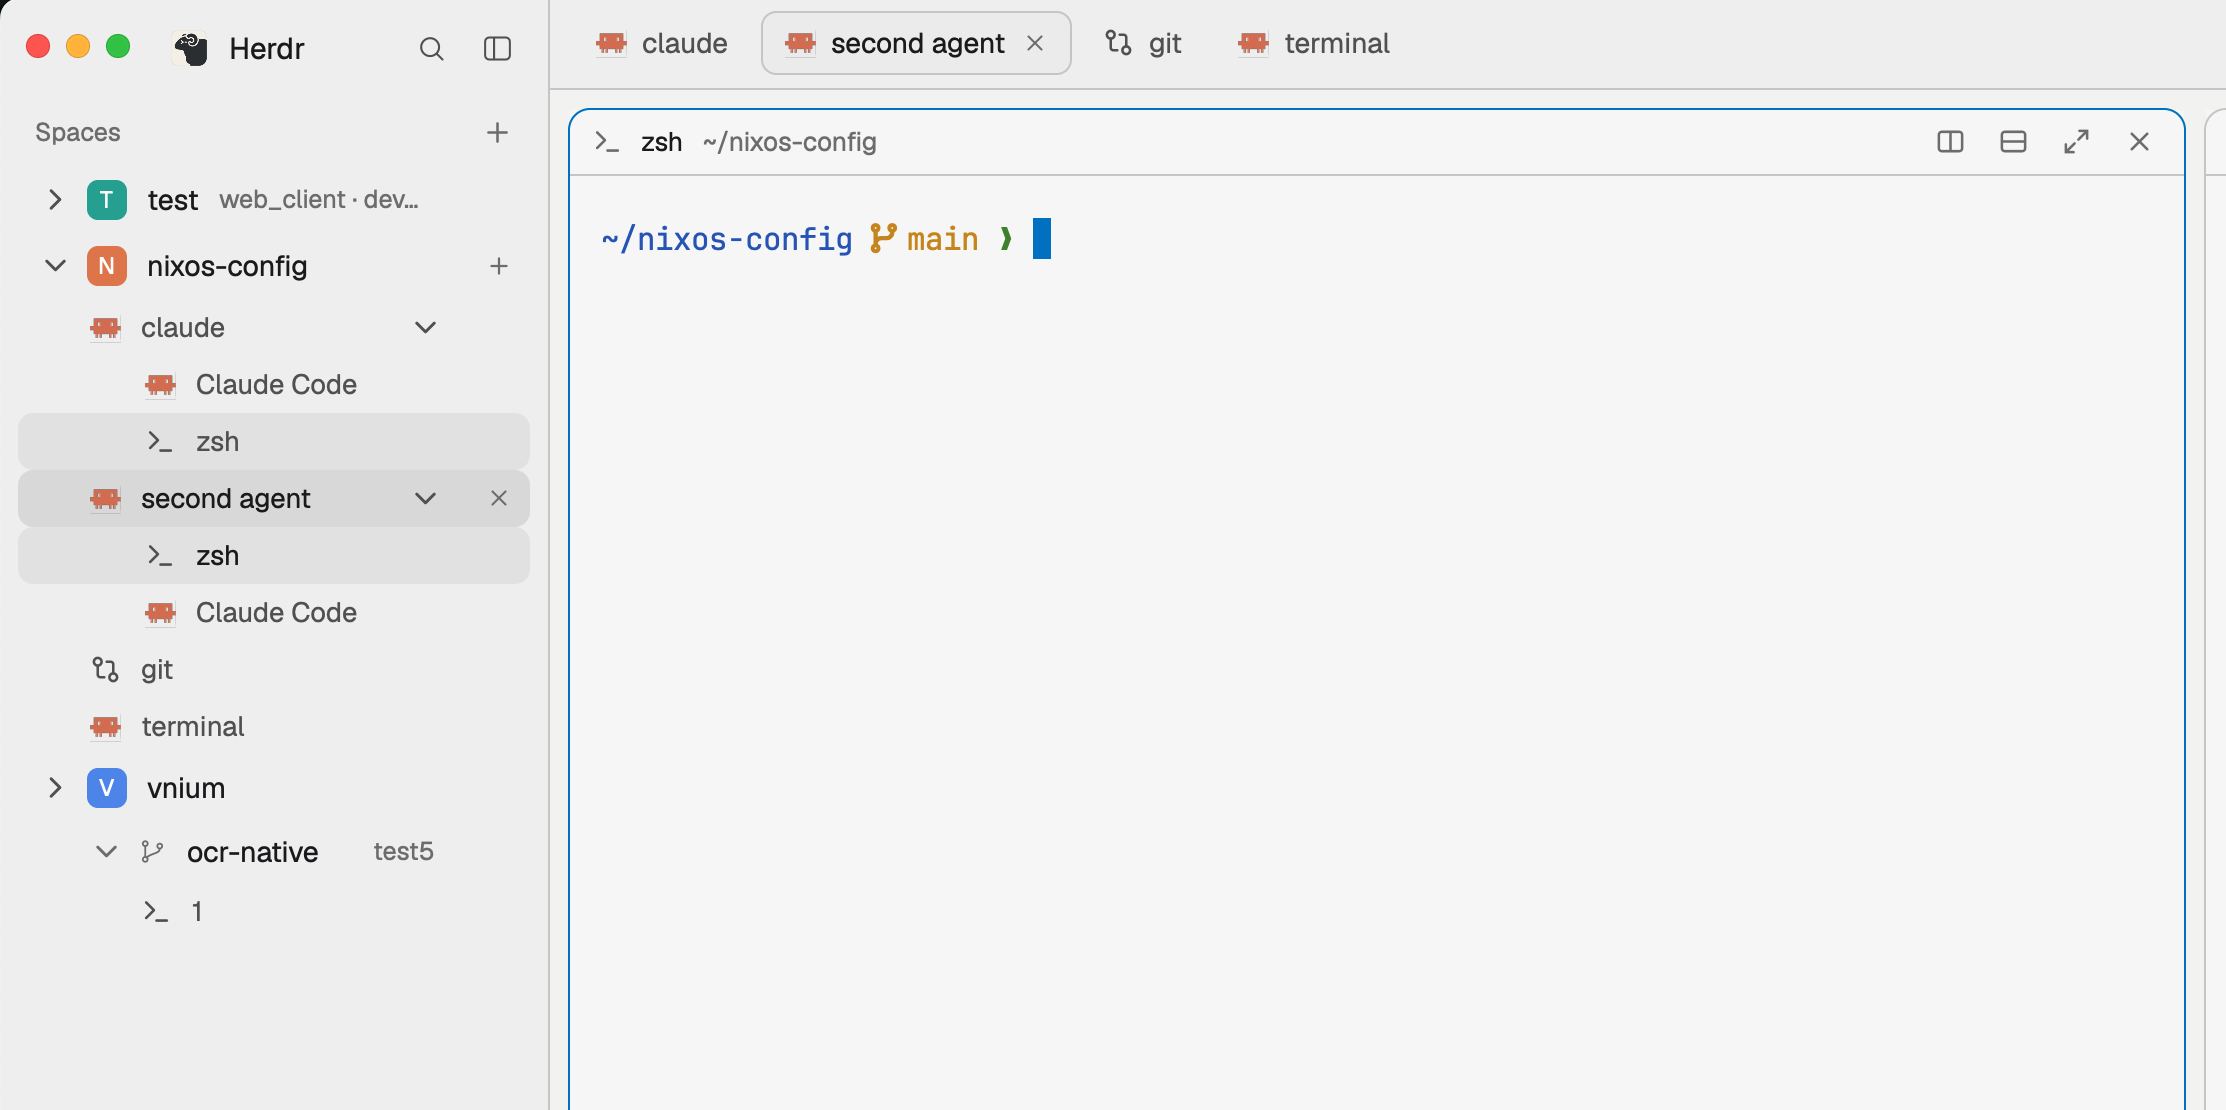
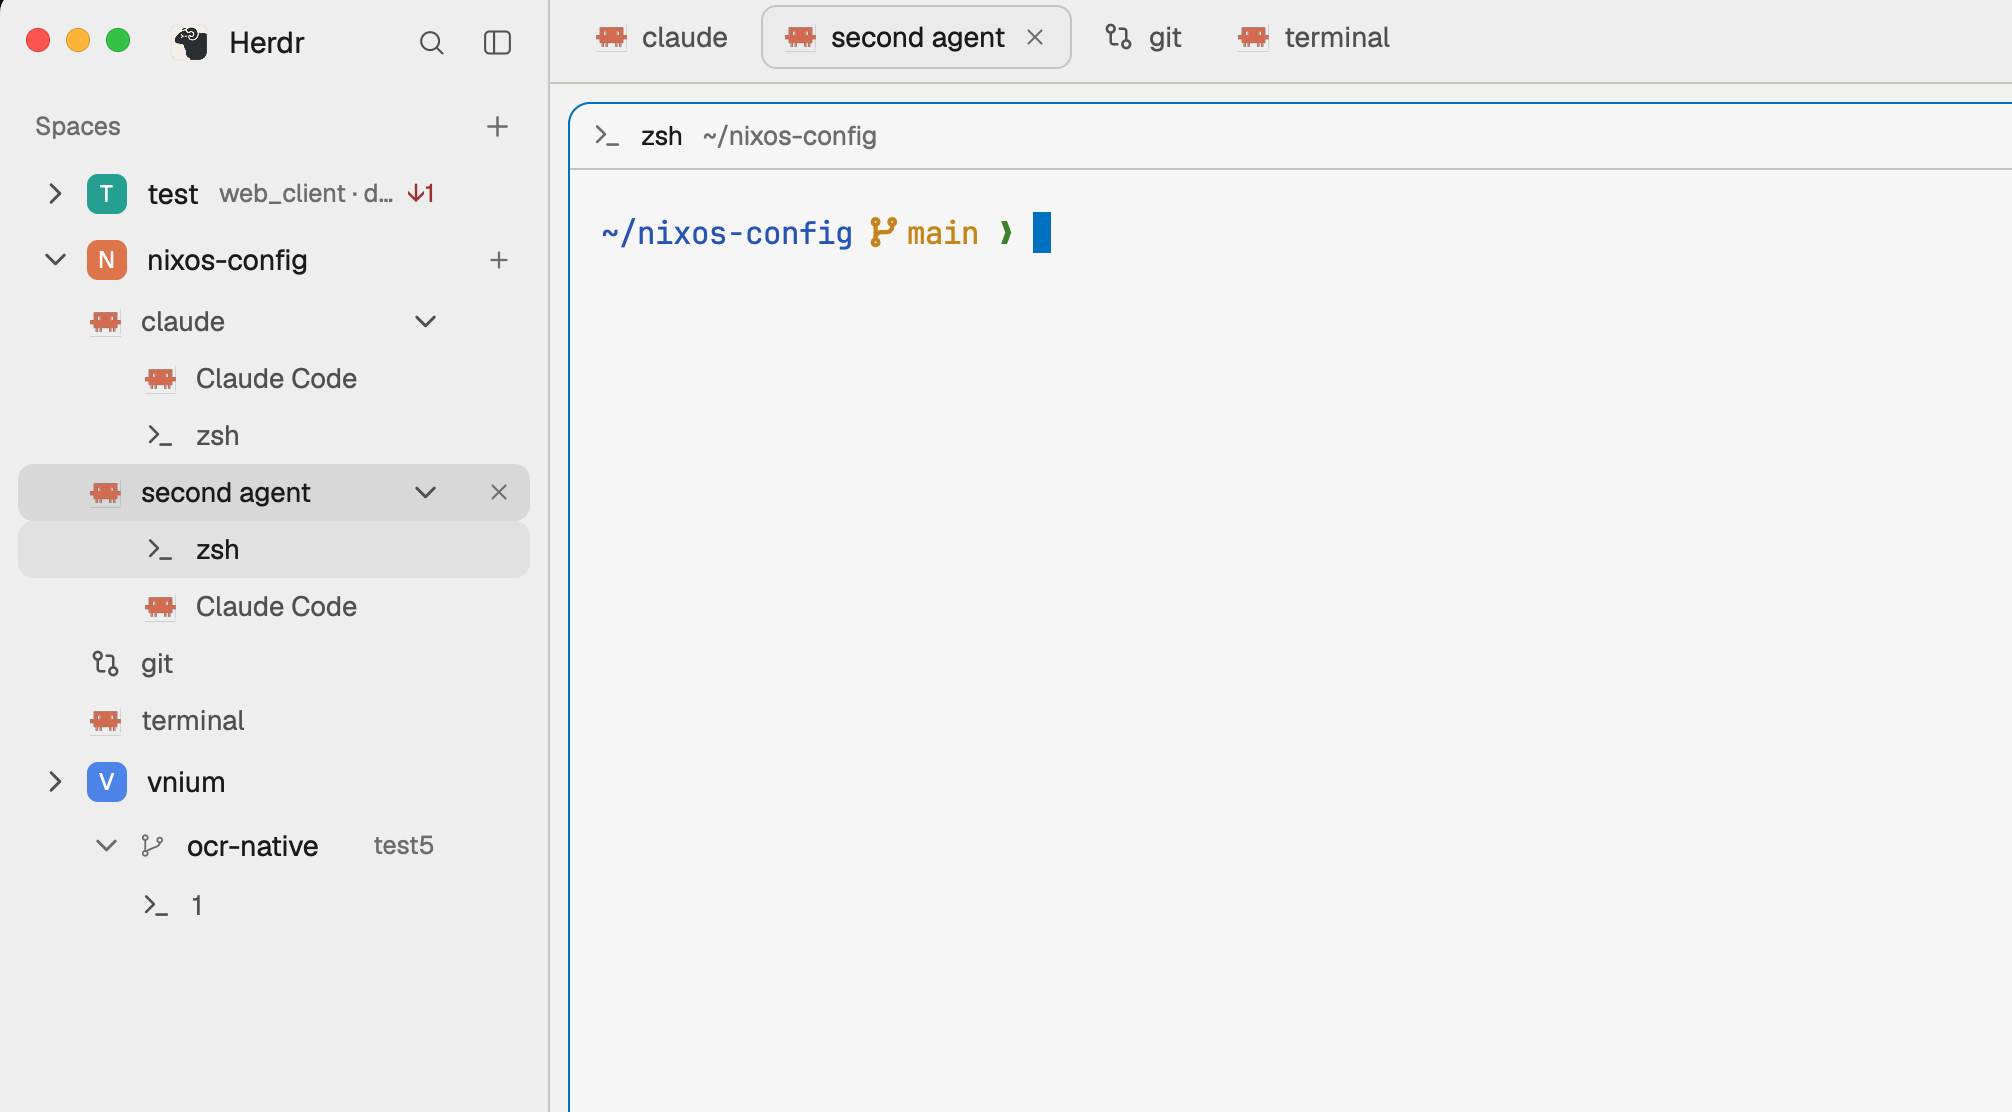
README: vim keys up front, new preview

diff --git a/mods/nerd-tree/main.js b/mods/nerd-tree/main.js
@@ -799,7 +799,7 @@ export default class Spaces extends View {
       .on_key_down((e, cx) => this.key(e, cx))
       .child(h_flex().h(31).pl(16).pr(10).items_center().justify_between().text_size(11.5).text_color(t.dim)
         .when(!collapsed, el => el.child(div().flex_1().child("Spaces")))
-        .when(!collapsed && this.focused, el => el.child(div().flex_none().mr(6).text_size(10.5).child("j k  h l  ⏎  esc")))
+        .when(!collapsed && this.focused, el => el.child(div().flex_none().mr(6).text_size(10.5).child("vim: j k h l ⏎ esc")))
         .child(div().id("space-new").size(26).flex_none().flex().items_center().justify_center().rounded(6).hover(s => s.bg(t.hover).text_color(t.foreground))
           .on_click(() => run("space.new")).child(svg("mods/workspace-chrome/plus.svg").size(14))))
       .child(v_flex().id("space-list").flex_1().min_h(0).px(8).pb(14).overflow_y_scrollbar().mode("always").track_scroll(this.scroll)

diff --git a/README.md b/README.md
@@ -1,22 +1,11 @@
 # herdr-nerd-tree
 
-The [Herdr](https://herdr.dev) app's sidebar as a tree you can drive from the
-keyboard: every space with its tabs right under it, the agents list kept
-separate, and vim keys to walk it — the way NERDTree let you walk a project
-without reaching for the mouse.
+The [Herdr](https://herdr.dev) app's sidebar as a tree: every space with its
+tabs right under it, the agents list kept separate — and **vim keys** to walk
+it (`j`/`k`, `h`/`l`, `Enter`), the way NERDTree lets you walk a project in vim
+without reaching for the mouse. `cmd-shift-e` to start.
 
 ![herdr-nerd-tree](preview.png)
-
-```
-Spaces                                  +
-⌄ [S] shop            checkout     ◌  +
-      🤖 agent                  ›  ◌  ×
-      ▣  diff
-      ⑂  git
-⌄ [N] notes
-      🤖 claude                     ●
-      >_ shell
-```
 
 ## Why
 
@@ -43,12 +32,12 @@ right idea, and this started as a copy of it. Three things made us rewrite it:
 It also keeps the tab chips in the top bar (the fork hid them): tabs in both
 places, `cmd-shift-t` to hide them there.
 
-## Keys
+## Keys — vim-style, as in NERDTree
 
 `cmd-shift-e` gives the sidebar the keyboard (as Explorer in VS Code), and so
 does moving left out of the leftmost pane (`pane.go`, `cmd-alt-left` by
 default). A ring marks the row under the cursor while it has the keyboard, and
-the header shows `j k  h l  ⏎  esc`.
+the header shows `vim: j k h l ⏎ esc`.
 
 | key | does |
 |---|---|

diff --git a/RECIPE.md b/RECIPE.md
@@ -15,7 +15,7 @@ Left to right: the sidebar (268 px, `chrome` background), then the work area.
   the tree (`nerd-tree`) and the agents list (`agents`) sharing the height,
   Herdr's footer (69 px).
 - **Tree header**, 31 px: "Spaces" in `dim` 11.5 px at left, a `+` (new space)
-  at right. While the tree has the keyboard, `j k  h l  ⏎  esc` in 10.5 px sits
+  at right. While the tree has the keyboard, `vim: j k h l ⏎ esc` in 10.5 px sits
   before the `+`.
 - **Space row**, 30 px (28 for a worktree), radius 8, 8 px left padding: a fold
   chevron (18 px box, 16 px Lucide chevron), 5 px, an 18 px rounded-5 avatar
